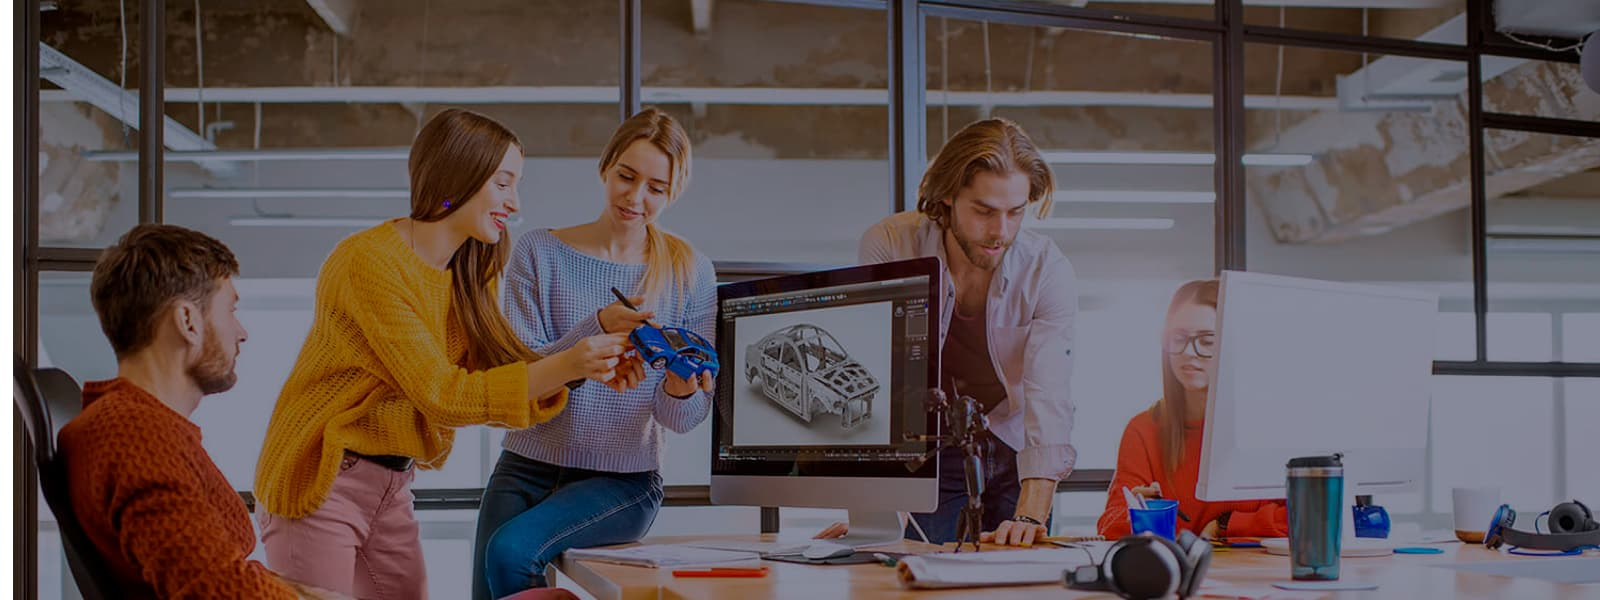
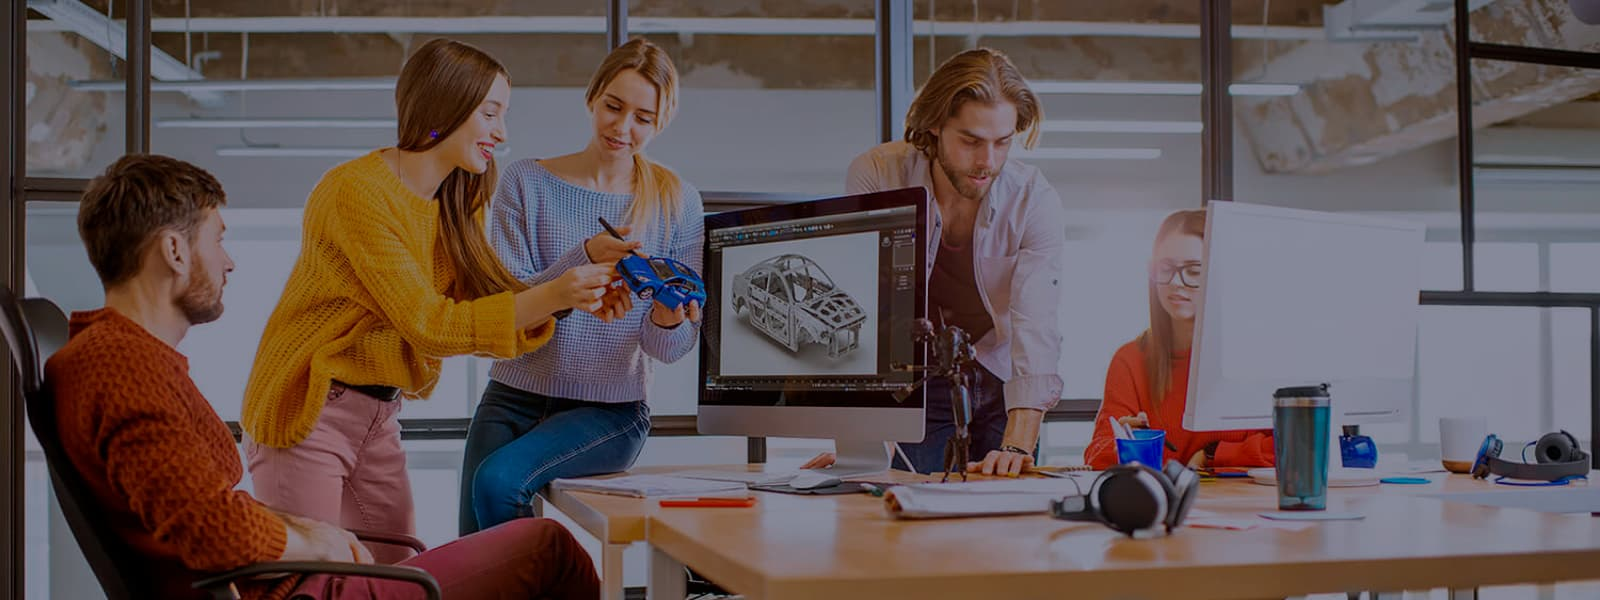
1

diff --git a/css/styles.css b/css/styles.css
@@ -67,6 +67,7 @@ ul{
   }
 
 /* HEADER */
+
 .header {
    border-bottom: 1px solid #ECECEC;
 }
@@ -187,9 +188,10 @@ align-items: center;
   text-align: center;
   padding-top: 200px;
   padding-bottom: 200px;
-  background-image: url(../images/ImgOverlay.png),
-   url(../images/imgbg.jpg)
-  ;
+  background-image:  linear-gradient(to right,
+  rgba(47, 48, 58, 0.4),
+  rgba(47, 48, 58, 0.4) ),
+   url(../images/imgbg.jpg);
   background-repeat: no-repeat;
   background-position: center;
   
@@ -280,7 +282,7 @@ color: var(--gray);
 background-image: url(../images/group.svg);
 }
 .icon-vector::before{
-background-image: url(../images/vector.svg);
+background-image: url(../images/clock.svg);
 }
 .icon-diagram::before{
 background-image: url(../images/diagram.svg);
@@ -439,6 +441,7 @@ fill: var(--background-white);
     background-color:var(--background-gray);
     padding-top: 60px;
     padding-bottom: 60px;
+    
 
 }
 
@@ -490,6 +493,7 @@ font-style: normal;
 }
 .footer-div {
     margin-left: 70px;
+    padding-top: 15px;
 }
 .title-footer{
     font-weight: 700;
@@ -568,6 +572,9 @@ background-color: var(--background-button);
 border-color: var(--background-button);
 font-family: inherit;
 border-radius: 5px;
+min-width: 73px;
+padding: 6px 22px;
+border: none;
 }
 .filters-button:hover, .filters-button:focus {
 color: var(--white);
@@ -597,7 +604,6 @@ font-size: 18px;
 line-height: 2;
 letter-spacing: 0.06em;
 color: var(--black);
-margin-top: 20px;
 margin-bottom: 4px;
 
 }
